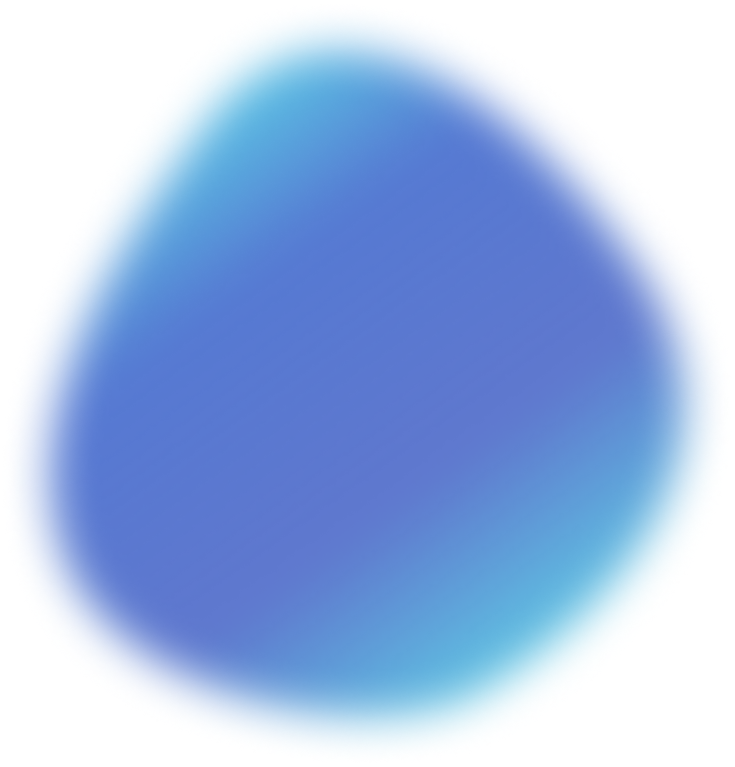
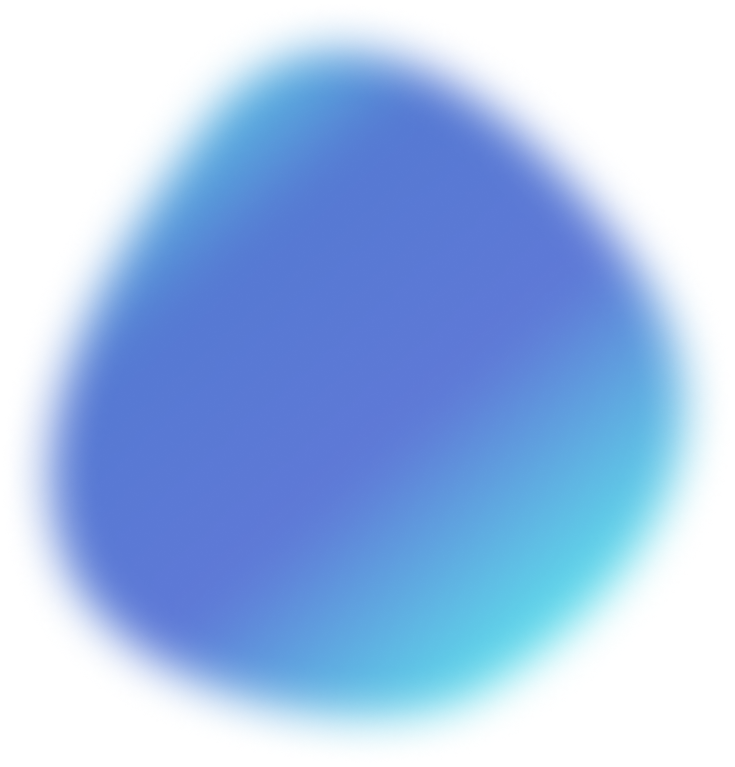
large screen ui

Changed region(s): [[0.5986, 0.4198, 0.9279, 0.8696]]

diff --git a/lib/screens/large_screens/about_sceen.dart b/lib/screens/large_screens/about_sceen.dart
@@ -14,6 +14,7 @@ class LargeAboutScreen extends StatefulWidget {
 
 class _LargeAboutScreenState extends State<LargeAboutScreen> {
   @override
+  
   Widget build(BuildContext context) {
     double height = MediaQuery.of(context).size.height;
     double width = MediaQuery.of(context).size.width;
@@ -24,41 +25,49 @@ class _LargeAboutScreenState extends State<LargeAboutScreen> {
         height: height * 0.87,
         child: Stack(
           children: [
+            // Positioned(
+            //   bottom: 160.0,
+            //   left: 280.0,
+            //   child: Image.asset(
+            //     "assets/images/blob3.png",
+            //     height: 400,
+            //   ),
+            // Blob.fromID(
+            //   id: const ['6-4-32'],
+            //   size: 500.0,
+            //   styles: BlobStyles(
+            //       fillType: BlobFillType.fill,
+            //       gradient: const LinearGradient(colors: [
+            //         Color(0xFF5FFBF1),
+            //         Color(0xFF5679D2),
+            //       ]).createShader(const Rect.fromLTRB(300, 00, 00, 300))),
+            // ),
+            // ),
+            // Positioned(
+            //   top: 20.0,
+            //   left: 450.0,
+            //   child: Image.asset(
+            //     "assets/images/blob4.png",
+            //     height: 550,
+            //   ),
+            // Blob.fromID(
+            //   id: const ['5-4-32'],
+            //   size: 700.0,
+            //   styles: BlobStyles(
+            //       fillType: BlobFillType.fill,
+            //       gradient: const LinearGradient(colors: [
+            //         Color(0xFF5FFBF1),
+            //         Color(0xFF5679D2),
+            //       ]).createShader(const Rect.fromLTRB(0, 00, 300, 300))),
+            // ),
+            // ),
             Positioned(
-              bottom: 190.0,
-              left: 280.0,
+              top: -10.0,
+              left: width * 0.264,
               child: Image.asset(
                 "assets/images/blob3.png",
-                height: 400,
+                height: height * 0.89,
               ),
-              // Blob.fromID(
-              //   id: const ['6-4-32'],
-              //   size: 500.0,
-              //   styles: BlobStyles(
-              //       fillType: BlobFillType.fill,
-              //       gradient: const LinearGradient(colors: [
-              //         Color(0xFF5FFBF1),
-              //         Color(0xFF5679D2),
-              //       ]).createShader(const Rect.fromLTRB(300, 00, 00, 300))),
-              // ),
-            ),
-            Positioned(
-              top: 20.0,
-              left: 450.0,
-              child: Image.asset(
-                "assets/images/blob4.png",
-                height: 550,
-              ),
-              // Blob.fromID(
-              //   id: const ['5-4-32'],
-              //   size: 700.0,
-              //   styles: BlobStyles(
-              //       fillType: BlobFillType.fill,
-              //       gradient: const LinearGradient(colors: [
-              //         Color(0xFF5FFBF1),
-              //         Color(0xFF5679D2),
-              //       ]).createShader(const Rect.fromLTRB(0, 00, 300, 300))),
-              // ),
             ),
             Center(
               child: SizedBox(
@@ -105,19 +114,19 @@ class _LargeAboutScreenState extends State<LargeAboutScreen> {
                           color: white,
                           size: 40,
                         ),
-                        SizedBox(width: 20),
+                        SizedBox(width: 32),
                         FaIcon(
                           FontAwesomeIcons.linkedin,
                           color: white,
                           size: 40,
                         ),
-                        SizedBox(width: 20),
+                        SizedBox(width: 32),
                         FaIcon(
                           FontAwesomeIcons.twitter,
                           color: white,
                           size: 40,
                         ),
-                        SizedBox(width: 20),
+                        SizedBox(width: 32),
                         Icon(
                           Icons.mail,
                           color: white,

diff --git a/lib/screens/large_screens/main_large_screen.dart b/lib/screens/large_screens/main_large_screen.dart
@@ -86,7 +86,7 @@ class _LargeScreenState extends State<LargeScreen> {
                         style: TextStyle(
                             color:
                                 _currentIndex == 0 ? white : Colors.grey[300],
-                            fontSize: 15.0,
+                            fontSize: 20.0,
                             fontWeight: _currentIndex == 0
                                 ? FontWeight.bold
                                 : FontWeight.normal),
@@ -109,7 +109,7 @@ class _LargeScreenState extends State<LargeScreen> {
                         style: TextStyle(
                             color:
                                 _currentIndex == 1 ? white : Colors.grey[300],
-                            fontSize: 15.0,
+                            fontSize: 20.0,
                             fontWeight: _currentIndex == 1
                                 ? FontWeight.bold
                                 : FontWeight.normal),
@@ -132,7 +132,7 @@ class _LargeScreenState extends State<LargeScreen> {
                         style: TextStyle(
                             color:
                                 _currentIndex == 2 ? white : Colors.grey[300],
-                            fontSize: 15.0,
+                            fontSize: 20.0,
                             fontWeight: _currentIndex == 2
                                 ? FontWeight.bold
                                 : FontWeight.normal),
@@ -155,7 +155,7 @@ class _LargeScreenState extends State<LargeScreen> {
                         style: TextStyle(
                             color:
                                 _currentIndex == 3 ? white : Colors.grey[300],
-                            fontSize: 15.0,
+                            fontSize: 20.0,
                             fontWeight: _currentIndex == 3
                                 ? FontWeight.bold
                                 : FontWeight.normal),
@@ -178,7 +178,7 @@ class _LargeScreenState extends State<LargeScreen> {
                         style: TextStyle(
                             color:
                                 _currentIndex == 4 ? white : Colors.grey[300],
-                            fontSize: 15.0,
+                            fontSize: 20.0,
                             fontWeight: _currentIndex == 4
                                 ? FontWeight.bold
                                 : FontWeight.normal),

diff --git a/lib/screens/large_screens/future_plans_screen.dart b/lib/screens/large_screens/future_plans_screen.dart
@@ -2,7 +2,6 @@ import 'package:auto_size_text/auto_size_text.dart';
 import 'package:blobs/blobs.dart';
 import 'package:flutter/material.dart';
 import 'package:verifi_website/theme.dart';
-import 'dart:math' as math;
 
 import '../../widgets/crad_container.dart';
 
@@ -22,15 +21,15 @@ class _LargeFuturePlansScreenState extends State<LargeFuturePlansScreen> {
       backgroundColor: primaryColor,
       body: SizedBox(
         width: width,
-        height: height * 0.87,
+        height: height,
         child: Stack(
           children: [
             Positioned(
-              bottom: 20.0,
-              left: 120.0,
+              bottom: height * 0.077,
+              left: width * 0.13,
               child: Image.asset(
                 "assets/images/blob2.png",
-                height: 400,
+                height: height * 0.647,
               ),
               // Transform.rotate(
               //   angle: -math.pi * 0.7,
@@ -47,11 +46,11 @@ class _LargeFuturePlansScreenState extends State<LargeFuturePlansScreen> {
               // ),
             ),
             Positioned(
-                bottom: 110.0,
-                left: -140.0,
+                bottom: height * 0.0925,
+                left: -width * 0.103,
                 child: Image.asset(
                   "assets/images/blob1.png",
-                  height: 450,
+                  height: height * 0.77,
                 )
                 // Blob.fromID(
                 //   id: const ['6-4-32'],
@@ -67,6 +66,7 @@ class _LargeFuturePlansScreenState extends State<LargeFuturePlansScreen> {
             Row(
               mainAxisAlignment: MainAxisAlignment.spaceEvenly,
               crossAxisAlignment: CrossAxisAlignment.center,
+              mainAxisSize: MainAxisSize.max,
               children: [
                 SizedBox(
                   width: width * 0.4,
@@ -88,6 +88,7 @@ class _LargeFuturePlansScreenState extends State<LargeFuturePlansScreen> {
                       mainAxisAlignment: MainAxisAlignment.center,
                       children: [
                         Column(
+                          mainAxisSize: MainAxisSize.max,
                           children: [
                             const CardConatiner(
                                 image: "achievements",

diff --git a/lib/screens/large_screens/features_screen.dart b/lib/screens/large_screens/features_screen.dart
@@ -24,11 +24,11 @@ class _LargeFeaturesScreenState extends State<LargeFeaturesScreen> {
         child: Stack(
           children: [
             Positioned(
-              bottom: -150.0,
-              left: -150.0,
+              bottom: height * 0.077,
+              left: -width * 0.03,
               child: Image.asset(
                 "assets/images/blob0.png",
-                height: 400,
+                height: height * 0.77,
               ),
               // Blob.fromID(
               //   id: const ['6-4-32'],
@@ -59,9 +59,11 @@ class _LargeFeaturesScreenState extends State<LargeFeaturesScreen> {
                             fontWeight: FontWeight.bold),
                       ),
                       const AutoSizeText(
-                        "up and running features we have on our platform at the moment",
+                        "up and running features we have on \nour platform at the moment",
                         maxLines: 2,
-                        style: TextStyle(color: grey, fontSize: 23.0),
+                        style: TextStyle(
+                            color: Color.fromARGB(255, 219, 219, 219),
+                            fontSize: 23.0),
                       ),
                       SizedBox(
                         height: height * 0.1,

diff --git a/lib/widgets/crad_container.dart b/lib/widgets/crad_container.dart
@@ -38,7 +38,7 @@ class _CardConatinerState extends State<CardConatiner> {
         height: height * 0.38,
         width: width * 0.1851,
         child: Column(
-          mainAxisAlignment: MainAxisAlignment.spaceAround,
+          mainAxisAlignment: MainAxisAlignment.spaceEvenly,
           children: [
             Image.asset(
               'assets/images/${widget.image}.png',
